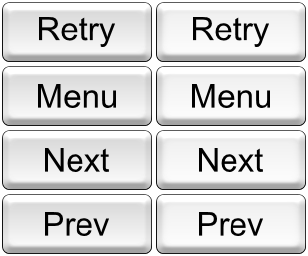
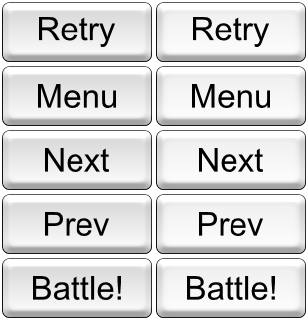
Tank selection menu is somewhat functional

diff --git a/app/states/menu.js b/app/states/menu.js
@@ -1,20 +1,56 @@
-define(['Phaser', 'app/game.js', 'app/global.js'], function (Phaser, game, global) {
+define(['Phaser', 'app/math.js','app/game.js', 'app/global.js', 'app/tanks_data.js','./../sprites/tank.js'], function (Phaser, math, game, global, tanksData, Tank) {
 
   var title;
+  var nextButton;
+  var prevButton;
+  var battleButton;
   var titleFont = "64px Arial";
+  var tanks = [];
+  var currentTank = null;
+  var currentTankIndex = 0;
+
+  function removeCurrentTank() {
+    tanks[currentTankIndex].destroy();
+  }
+
+  function showCurrentTank() {
+    tanks[currentTankIndex].create(50, game.height / 2);
+  }
 
   function onNextClick() {
-
+    removeCurrentTank();
+    currentTankIndex++;
+    if (currentTankIndex === tanks.length)
+      currentTankIndex = 0;
+    showCurrentTank();
   }
 
   function onPrevClick() {
+    removeCurrentTank();
+    currentTankIndex--;
+    if (currentTankIndex === -1)
+      currentTankIndex = tanks.length - 1;
+    showCurrentTank();
+  }
 
+  function onBattleClick() {
+    global.battle.tankId = tanks[currentTankIndex].id;
+    global.battle.tankData = tanksData[tanks[currentTankIndex].id];
+    game.state.start('Battle');
+  }
+
+  for (var tankId in tanksData) {
+    tanks.push(new Tank(tankId, game, tanksData[tankId]))
   }
 
   var menu = {
 
     preload: function () {
+      var i;
       game.load.spritesheet('assets/images/buttons.png', 'assets/images/buttons.png', 154, 64);
+      for (i = 0; i < tanks.length; i++) {
+        tanks[i].preload();
+      }
     },
 
     create: function () {
@@ -24,8 +60,13 @@
         align: "center"
       });
       title.anchor.setTo(0.5, 0.5);
-      retryButton = game.add.button(60, 500, 'assets/images/buttons.png', onNextClick, this, 5, 4, 5);
-      menuButton = game.add.button(580, 500, 'assets/images/buttons.png', onPrevClick, this, 7, 6, 7);
+      prevButton = game.add.button(60, 500, 'assets/images/buttons.png', onPrevClick, this, 7, 6, 7);
+      nextButton = game.add.button(580, 500, 'assets/images/buttons.png', onNextClick, this, 5, 4, 5);
+      battleButton = game.add.button(game.width / 2, 540, 'assets/images/buttons.png', onBattleClick, this, 9, 8, 9);
+      battleButton.anchor.setTo(0.5, 0.5);
+
+      showCurrentTank();
+      
     },
 
     update: function () {

diff --git a/app/sprites/tank.js b/app/sprites/tank.js
@@ -79,7 +79,7 @@
       shell.angle = math.randomNormal(shell.angle, this.dispersion * 0.27);
       shell.collisionType = "shell";
       this.game.physics.velocityFromAngle(shell.angle, 500, shell.body.velocity);
-      this.gunFire.play();
+      this.game.sound.play(this.tankData.turret.sound.gunFire.id, 1, false, true);
       this.reloadCounter = 0;
       this.dispersion = this.tankData.turret.spec.dispersion.max;
       return shell;
@@ -134,7 +134,7 @@
     calculateAimingGuide.call(this);
     this.reloadCounter = this.tankData.turret.spec.reloadTime;
 
-    this.gunFire = this.game.add.audio(this.tankData.turret.sound.gunFire.id);
+    //this.gunFire = this.game.add.audio(this.tankData.turret.sound.gunFire.id);
   }
 
   function update(time) {
@@ -147,7 +147,13 @@
 
   }
 
-  var Tank = function (game, tankData) {
+  function destroy() {
+    this.sprites.destroy();
+    this.aimingGuide.destroy();
+  }
+
+  var Tank = function (tankId, game, tankData) {
+    this.id = tankId;
     this.game = game;
     this.tankData = tankData;
 
@@ -155,6 +161,7 @@
     this.preload = preload;
     this.create = create;
     this.update = update;
+    this.destroy = destroy;
 
     this.rotateHullRight = rotateHullRight;
     this.rotateHullLeft = rotateHullLeft;

diff --git a/app/states/battle.js b/app/states/battle.js
@@ -4,7 +4,7 @@
     time: 120
   };
   var selectedTankData = tanksData.uber;
-  var tank = new Tank(game, selectedTankData);
+  var tank; 
   var barrel = new Barrel(game, targertsData.barrel);
   var shells;
   var controls;
@@ -52,7 +52,7 @@
       this.game.load.audio('assets/sounds/explode1.ogg', ['assets/sounds/explode1.ogg']);
       this.game.load.image('sand_background', 'assets/images/beach_sand_background.jpg');
 
-      tank.preload();
+      //tank.preload();
       barrel.preload();
     },
 
@@ -87,6 +87,7 @@
         align: "left"
       });
 
+      tank = new Tank(global.battle.tankId, game, global.battle.tankData);
       tank.create(100, 100);
       barrel.create(400, 100);
     },
